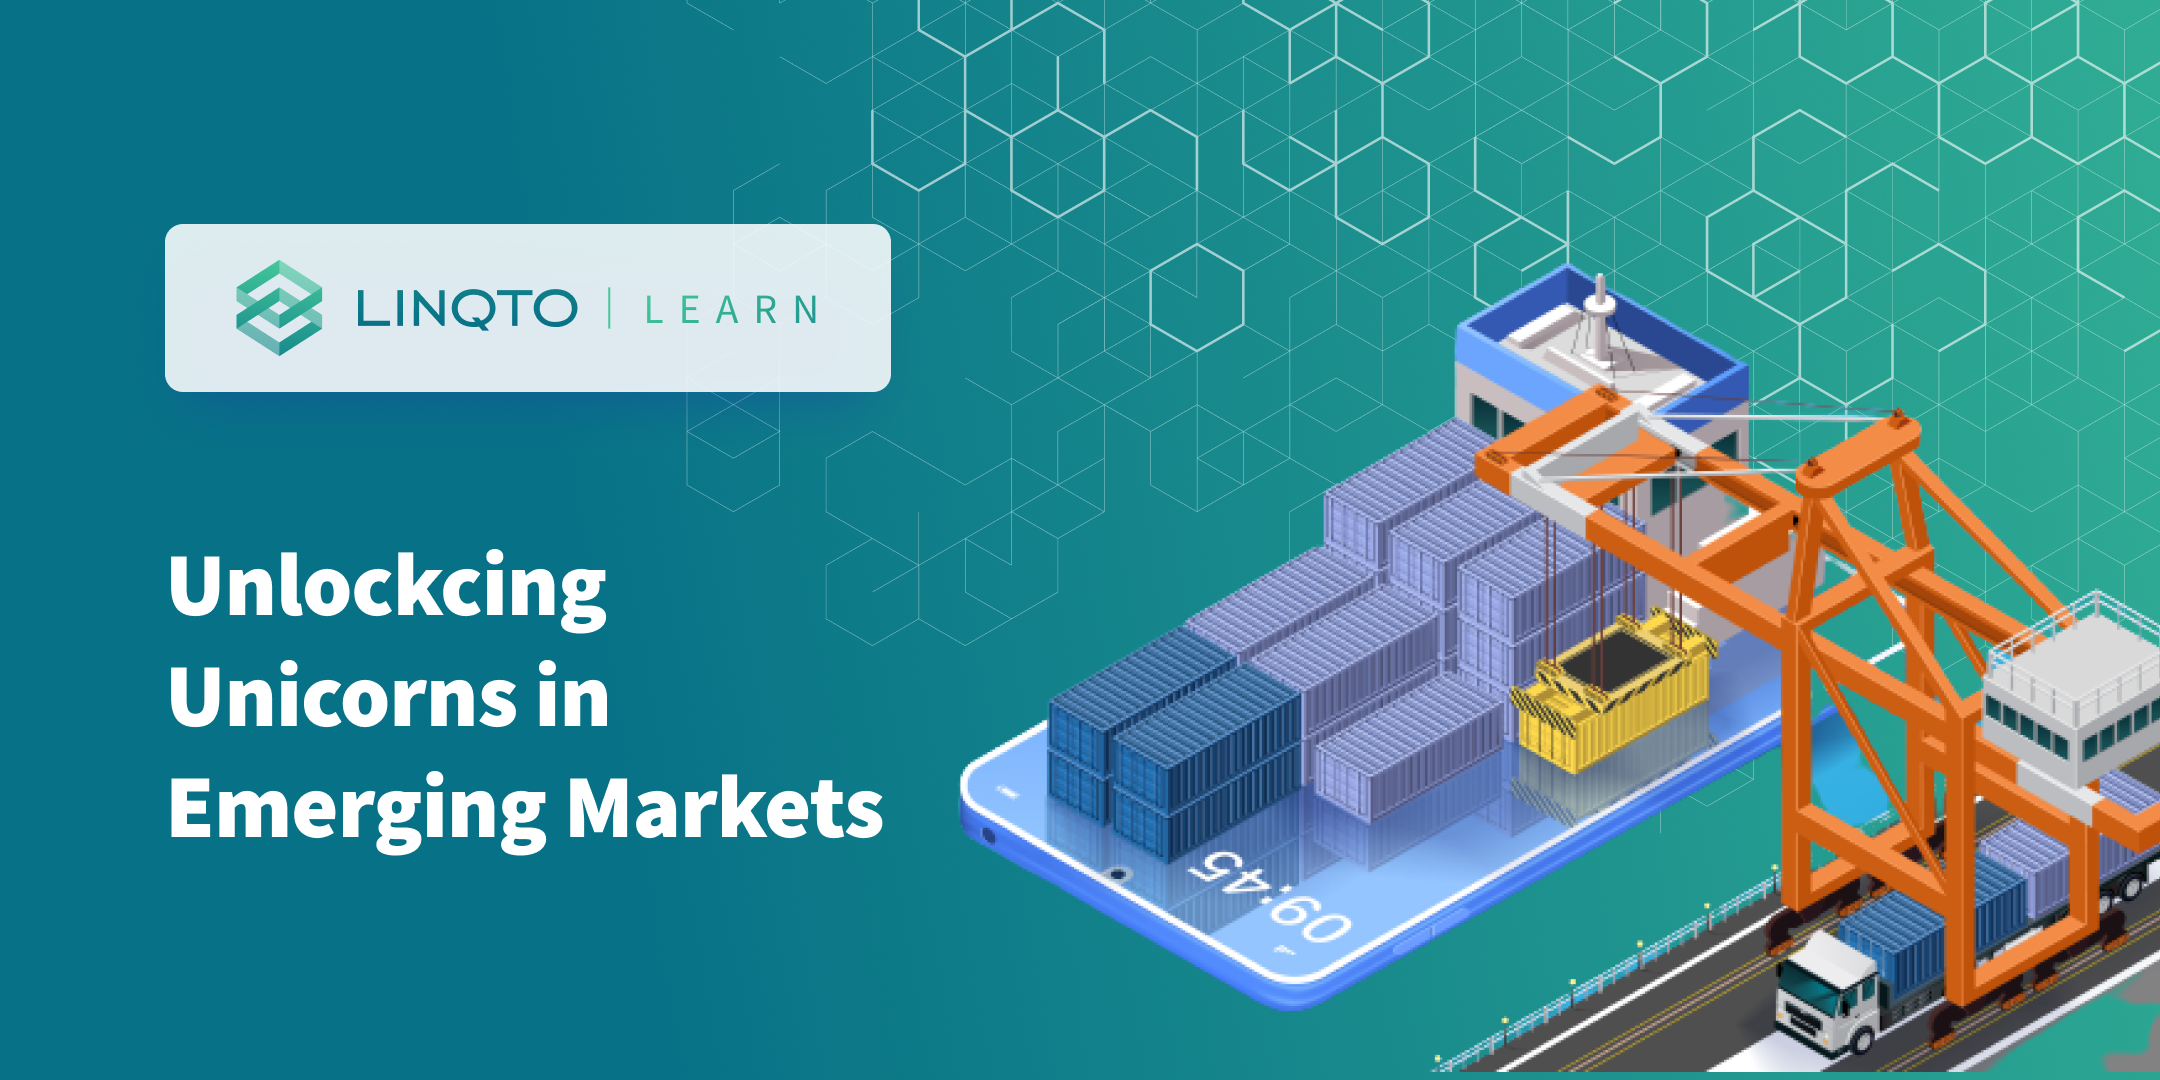
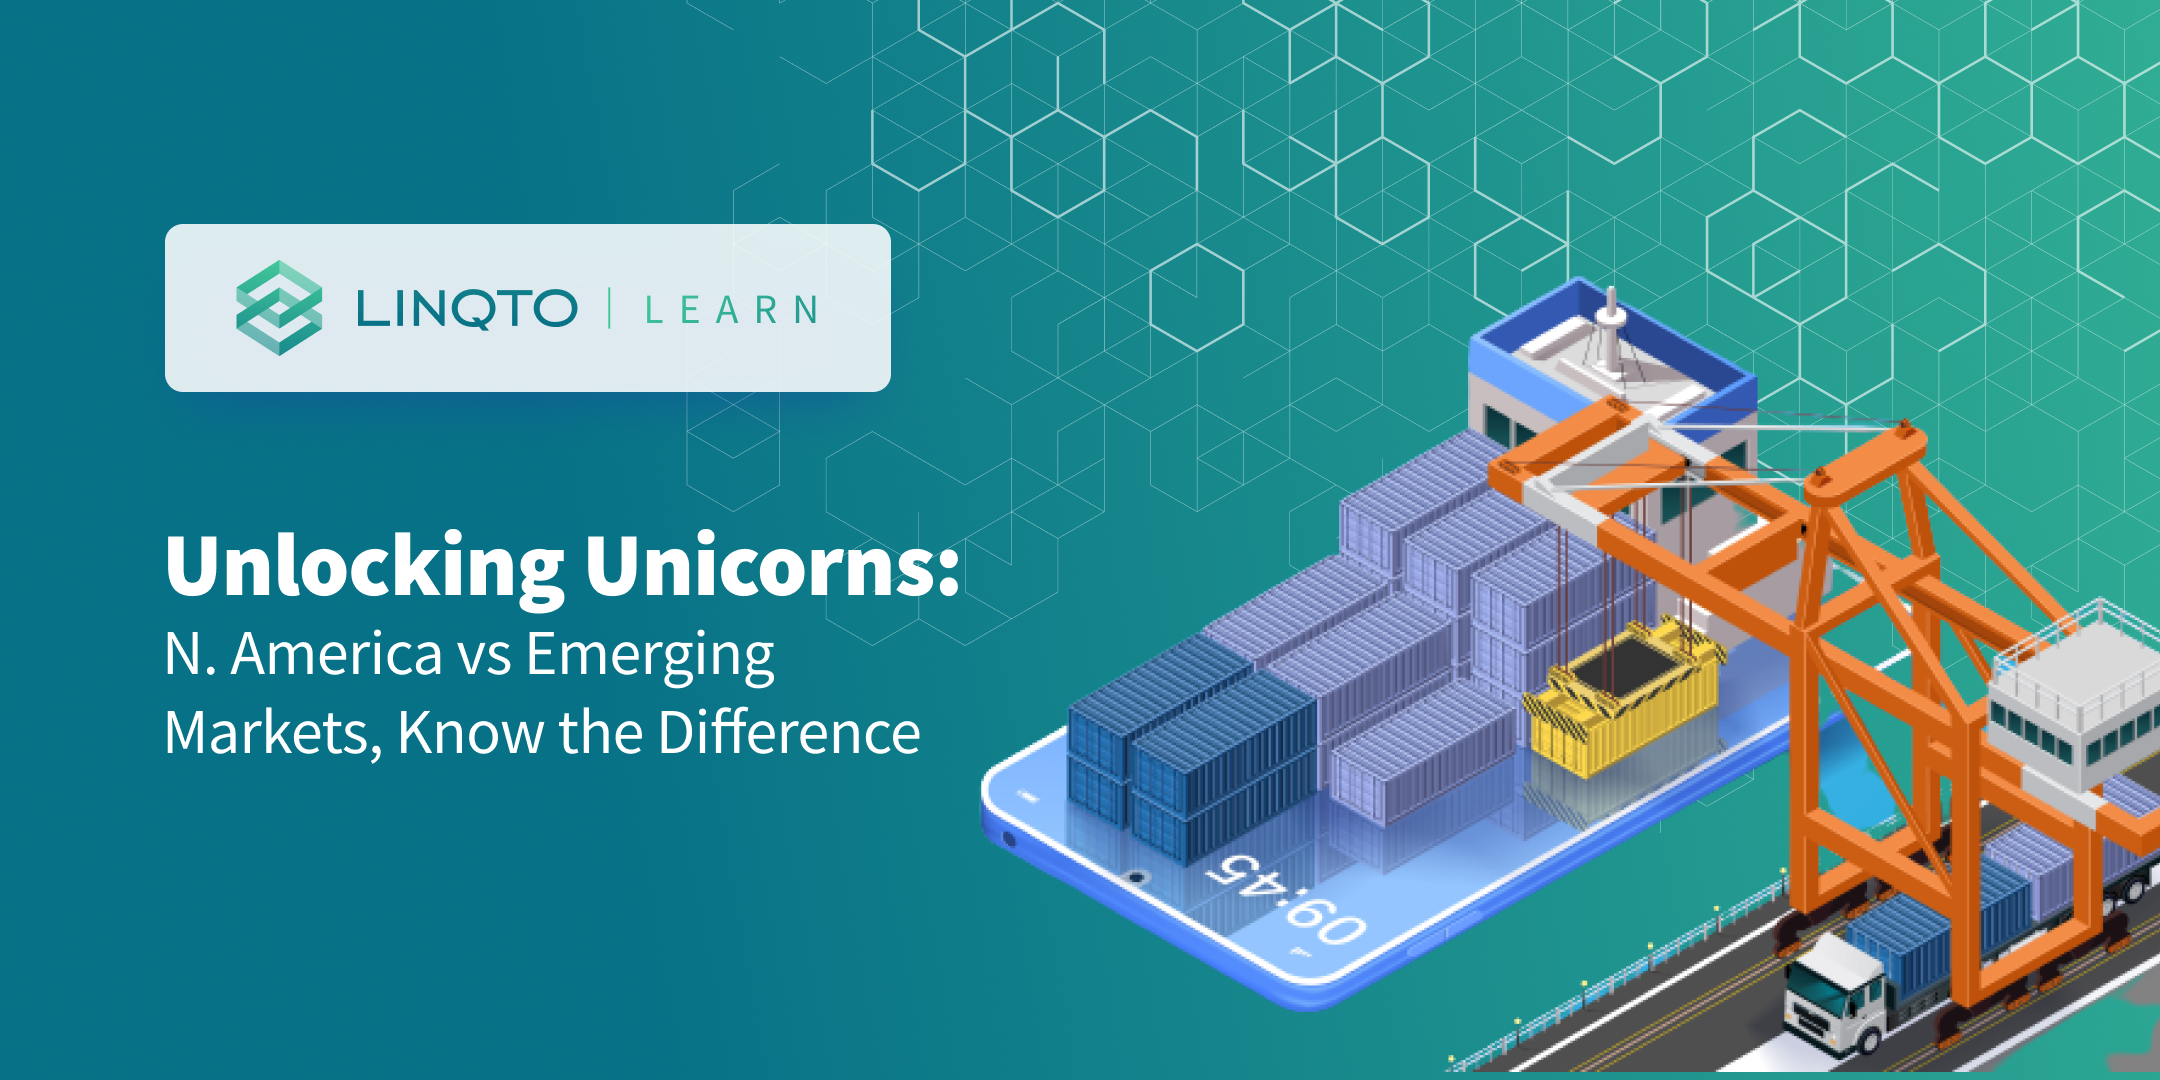
fix LL title

Changed region(s): [[0.062, 0.2444, 1.0, 1.0], [0.7755, 0.9778, 0.8065, 1.0]]

diff --git a/Learn.html b/Learn.html
@@ -149,7 +149,7 @@
                                         <div class="post-info">
                                             <span class="post-date"> Oct 6, 2022</span> <span class="post-author"><a class="id-color" href="#"></a>Comming Soon</span>
                                         </div>
-                                        <a target="_blank" href="#"><h3>Unlockcing Unicorns in Emerging Markets</h3></a>
+                                        <a target="_blank" href="#"><h3>Unlocking Unicorns:  N. America vs Emerging Markets, Know the Difference</h3></a>
                                         <p>TBD</p>
                                     </div>
                                 </div>
